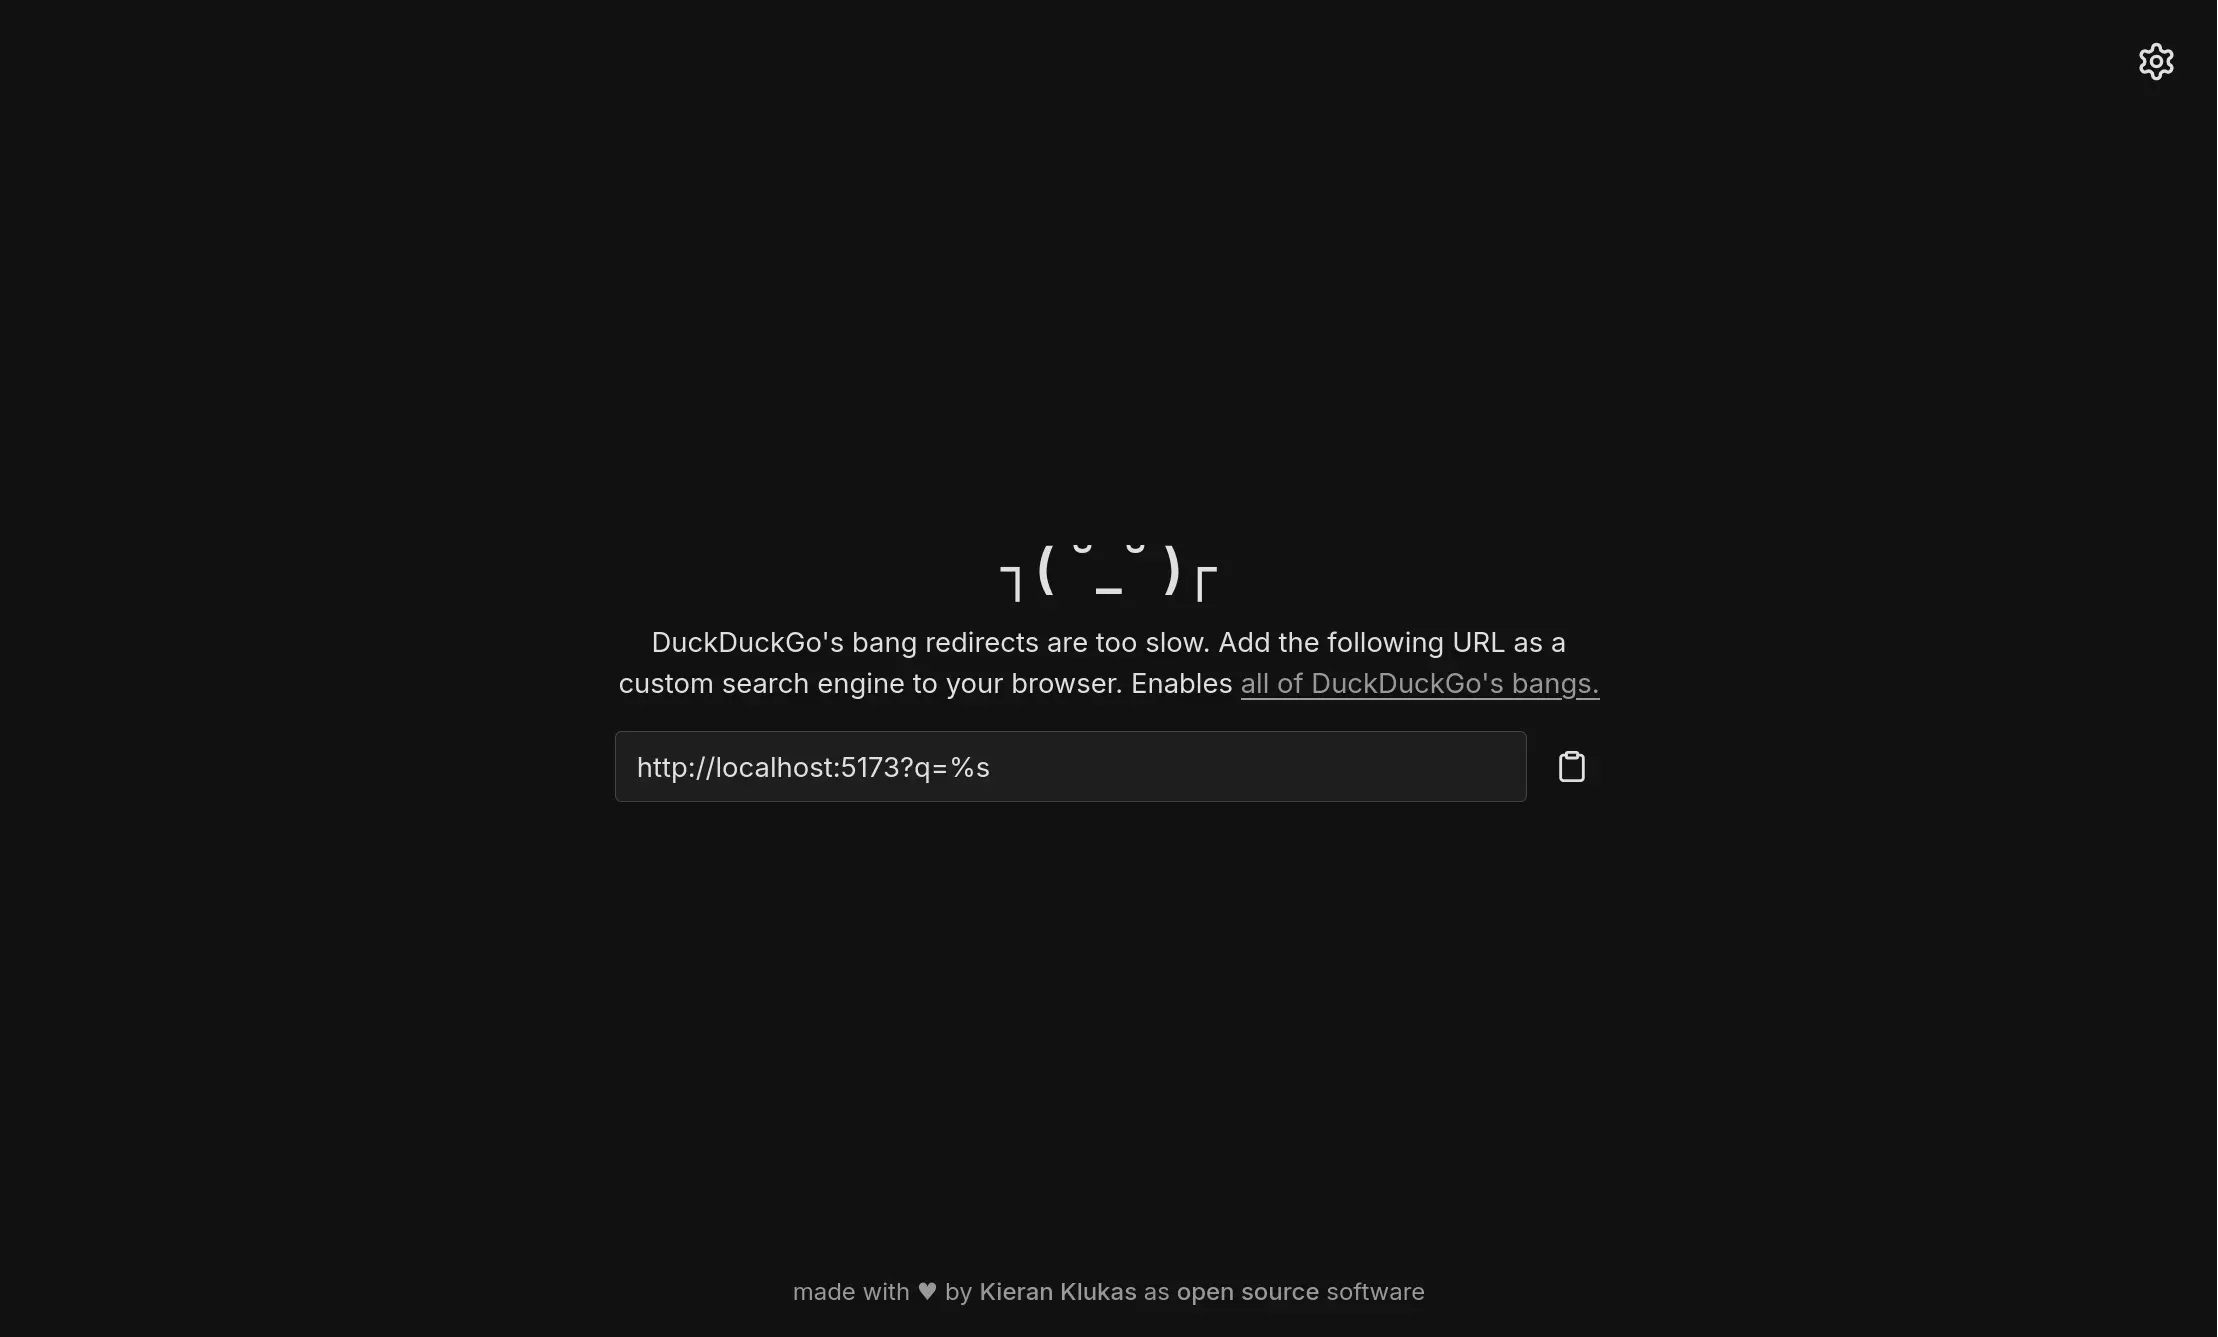
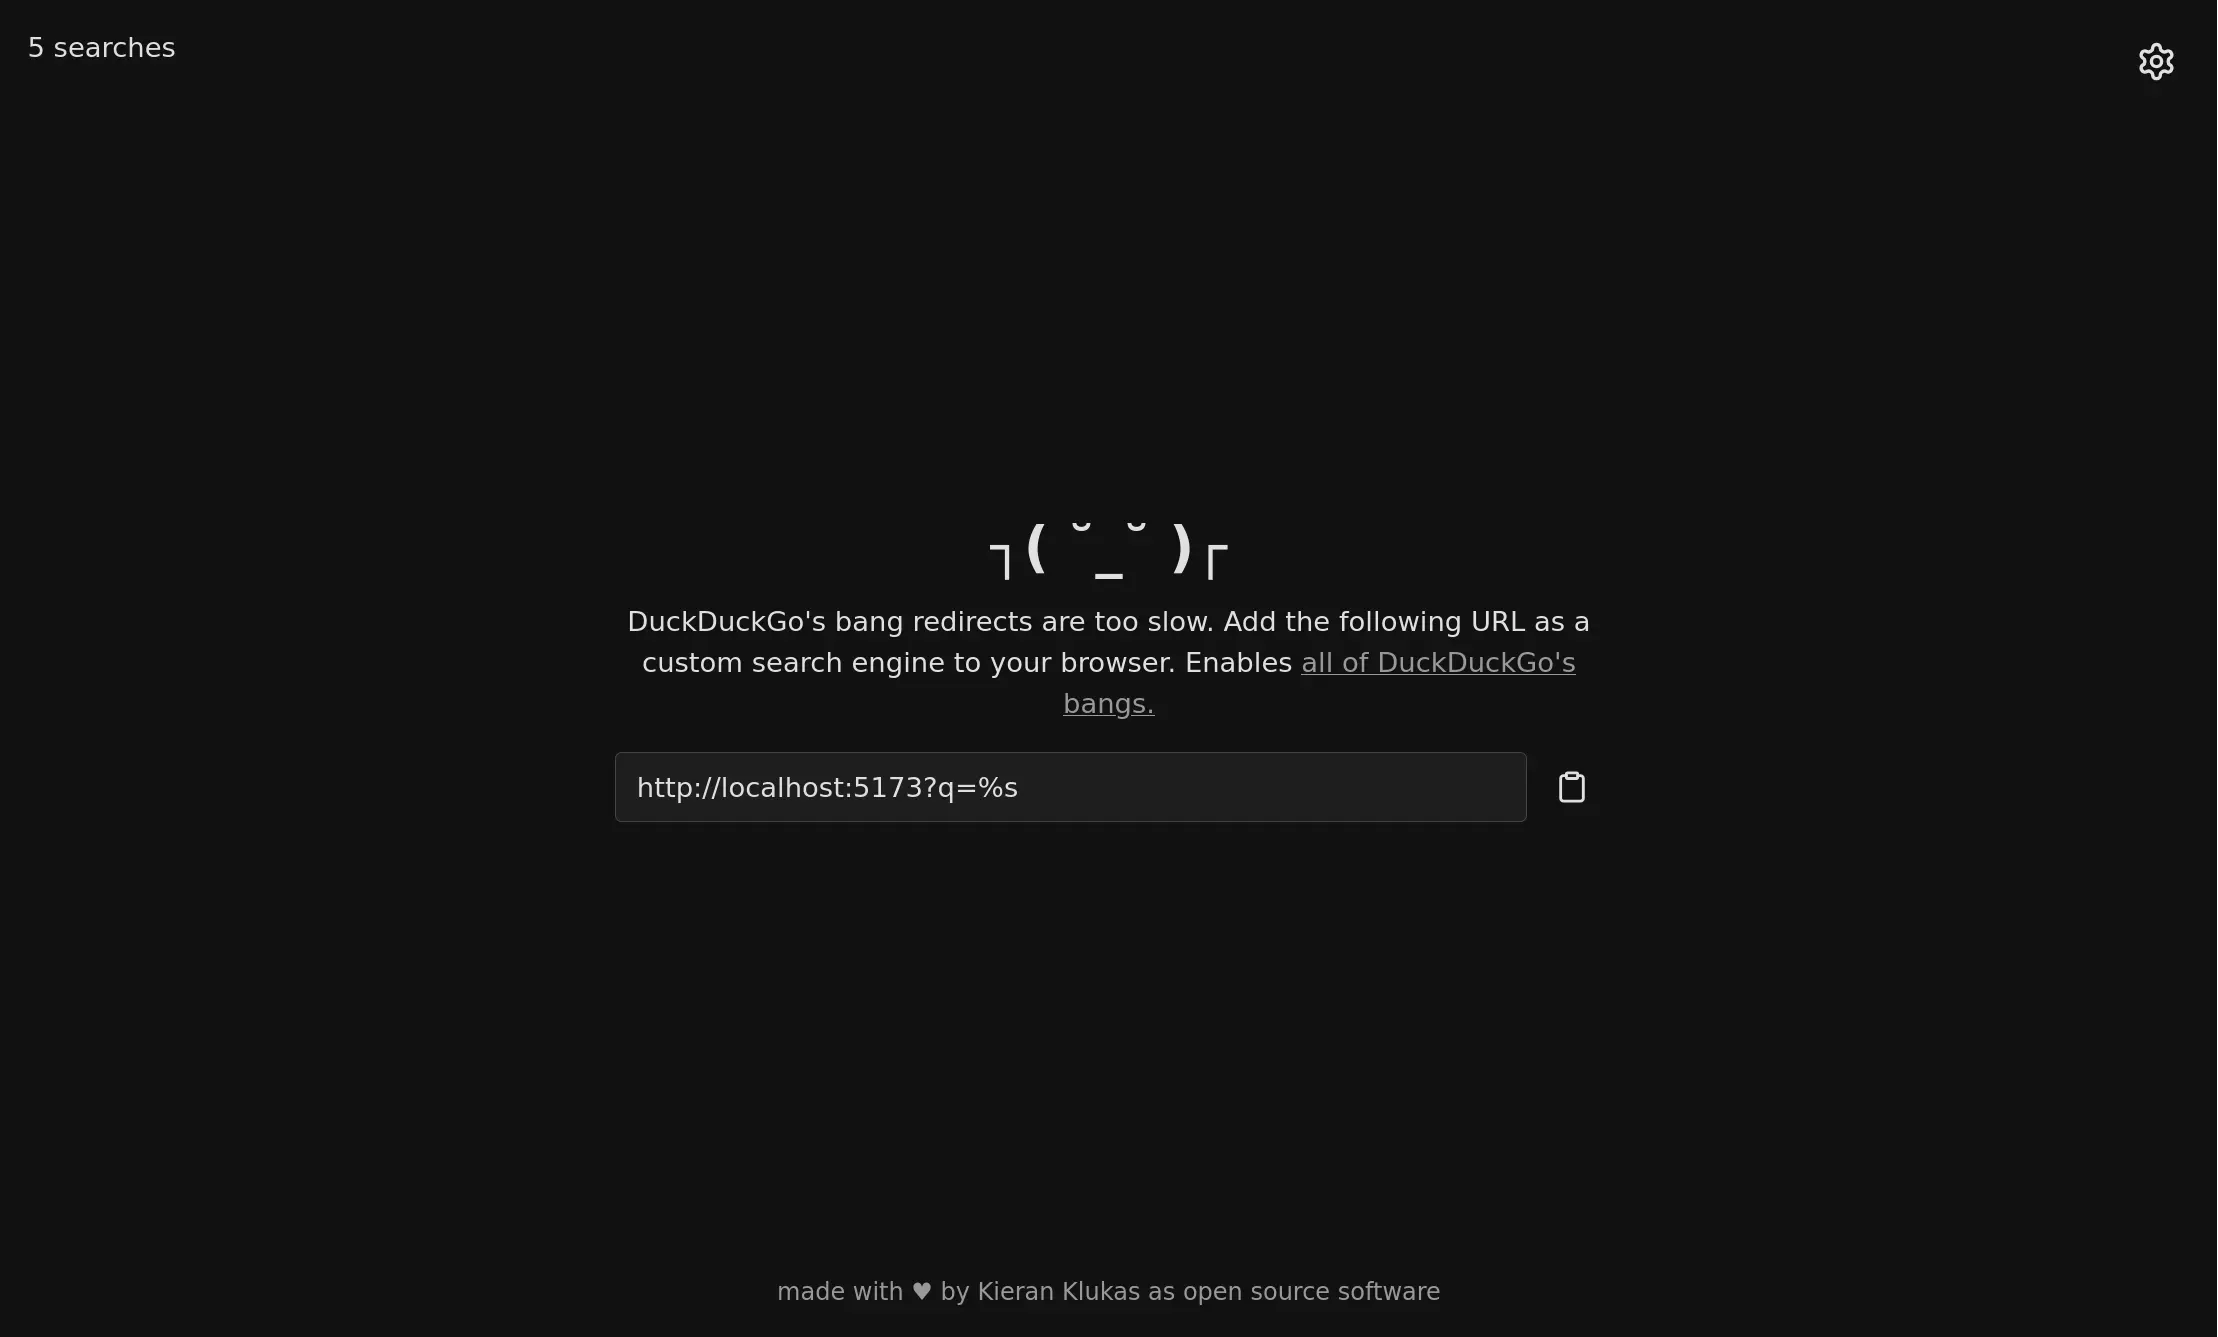
feat: add search counter

diff --git a/src/main.ts b/src/main.ts
@@ -23,15 +23,19 @@ function setOutsideElementsTabindex(modal: HTMLElement, tabindex: number) {
 }
 
 function noSearchDefaultPageRender() {
+	const searchCount = localStorage.getItem("search-count") || "0";
 	const app = document.querySelector<HTMLDivElement>("#app");
 	if (!app) throw new Error("App element not found");
 	app.innerHTML = `
 		<div style="display: flex; flex-direction: column; align-items: center; justify-content: center; height: 100vh;">
-				<header style="position: absolute; top: 1rem; right: 1rem;">
-						<button class="settings-button">
-								<img src="/gear.svg" alt="Settings" class="settings" />
-						</button>
-				</header>
+    		<header style="position: absolute; top: 1rem; width: 100%;">
+   			<div style="display: flex; justify-content: space-between; padding: 0 1rem;">
+            <span>${searchCount} ${searchCount === "1" ? "search" : "searches"}</span>
+    				<button class="settings-button">
+    						<img src="/gear.svg" alt="Settings" class="settings" />
+    				</button>
+   			</div>
+    		</header>
 				<div class="content-container">
 						<h1>┐( ˘_˘ )┌</h1>
 						<p>DuckDuckGo's bang redirects are too slow. Add the following URL as a custom search engine to your browser. Enables <a href="https://duckduckgo.com/bang.html" target="_blank">all of DuckDuckGo's bangs.</a></p>
@@ -163,6 +167,12 @@ function getBangredirectUrl() {
 		noSearchDefaultPageRender();
 		return null;
 	}
+
+	// increment search count
+	const count = (
+		Number.parseInt(localStorage.getItem("search-count") || "0") + 1
+	).toString();
+	localStorage.setItem("search-count", count);
 
 	const match = query.match(/!(\S+)/i);
 	const selectedBang = match

diff --git a/README.md b/README.md
@@ -22,6 +22,8 @@ I solved this by doing all of the work client side. Once you've went to https://
 This is primarily my personal fork to experiment with PWAs but I do have a few ideas that I would love to add to this.
 
 - [x] Bangs
+- [x] Search counter
+- [ ] Search suggestions
 - [ ] Search History (clearable ofc and all local)
 - [x] Dark Mode
 - [x] Settings (for things like disabling search history and changing default bang)
